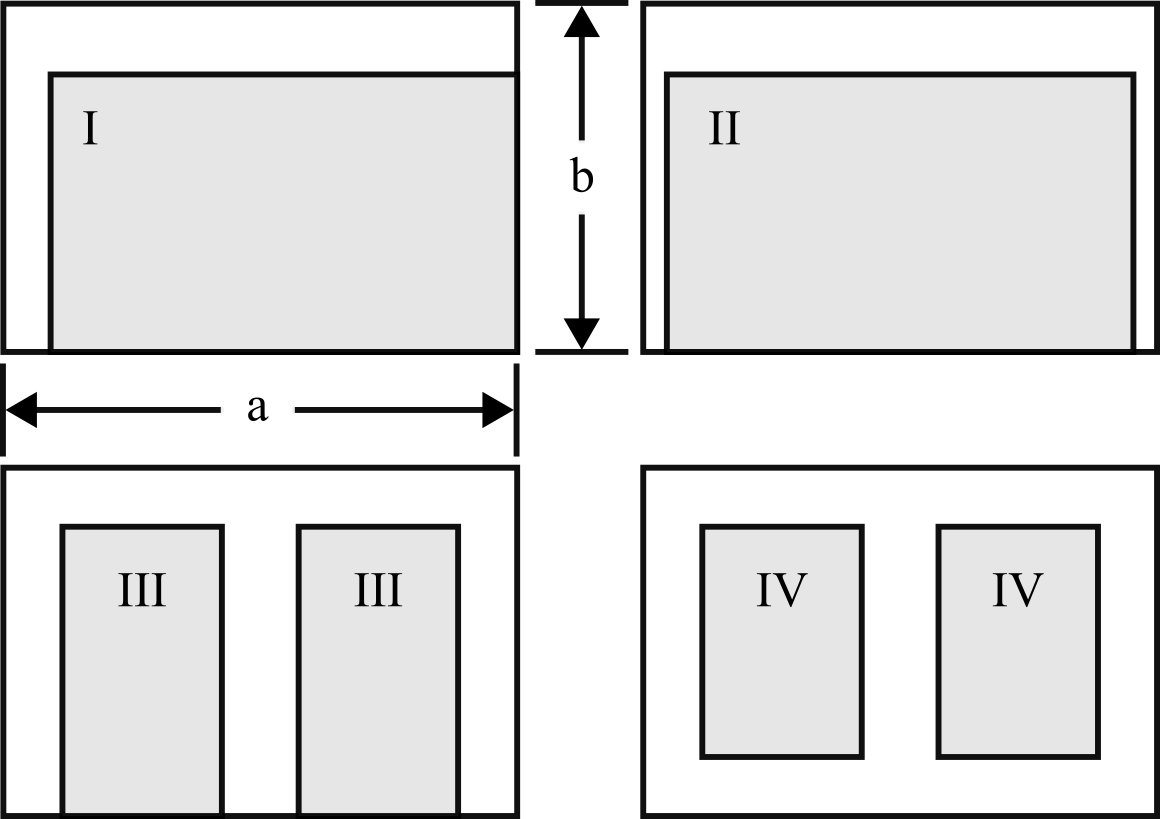
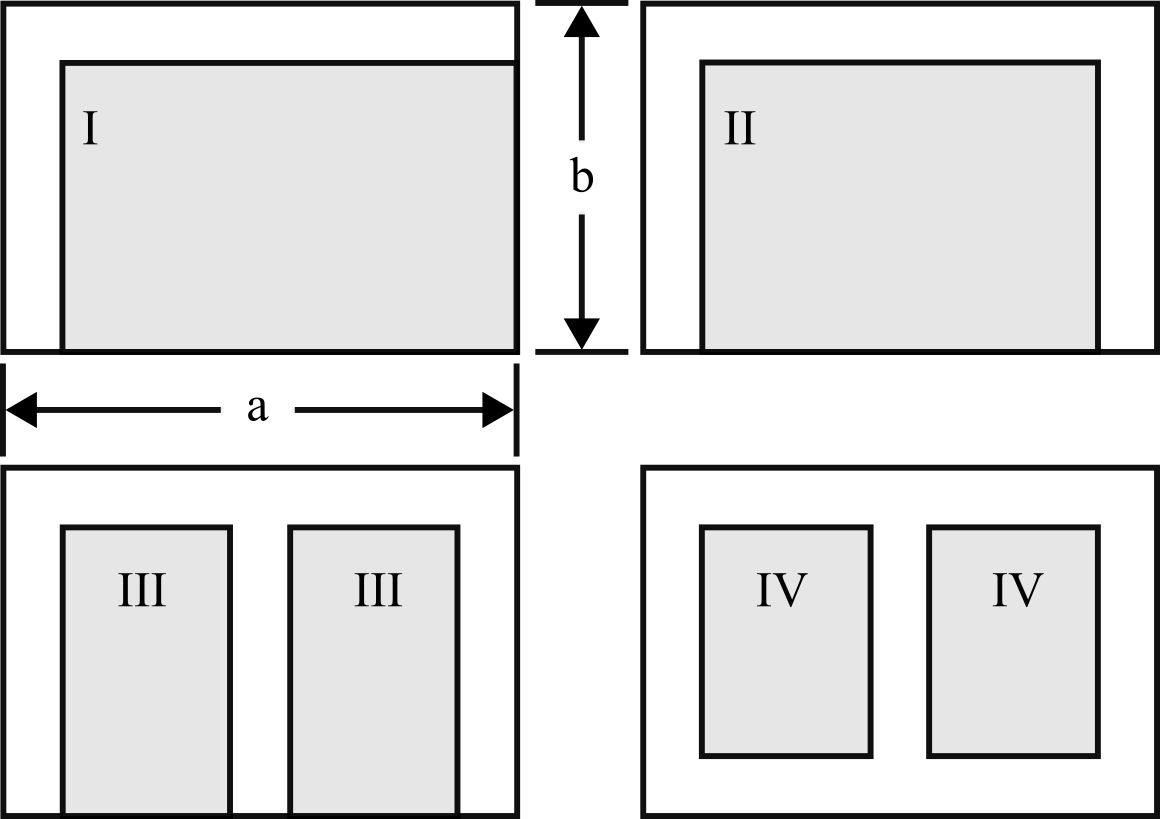
corrected figure on 7G_2SA

diff --git a/Q12_2Klausur_Ana_Sto.tex b/Q12_2Klausur_Ana_Sto.tex
@@ -1,0 +1,213 @@
+%compile with pdflatex on papeeria
+
+\documentclass[a4paper,12pt]{article}
+\usepackage{fancyhdr}
+%\usepackage{fancyheadings}
+\usepackage[ngerman,german]{babel}
+\usepackage{german}
+\usepackage[utf8]{inputenc}
+%\usepackage[latin1]{inputenc}
+\usepackage[active]{srcltx}
+%\usepackage{algorithm}
+%\usepackage[noend]{algorithmic}
+\usepackage{amsmath}
+\usepackage{amssymb}
+\usepackage{amsthm}
+\usepackage{bbm}
+\usepackage{enumerate}
+\usepackage{graphicx}
+\usepackage{ifthen}
+\usepackage{listings}
+\usepackage{enumitem}
+%\usepackage{struktex}
+\usepackage{hyperref}
+\usepackage{tikz}
+\usepackage{float}
+\usepackage{subcaption}
+\captionsetup{compatibility=false}
+\captionsetup[subfigure]{labelformat=empty}
+
+\usepackage{pgfplots}
+\usepgfplotslibrary{fillbetween}
+%\usetikzlibrary{patterns}
+\pgfplotsset{compat=1.15}
+\usepackage{mathrsfs}
+\usetikzlibrary{arrows}
+
+\pgfplotsset{grid style={dashed,gray}}
+
+\definecolor{kolorwykresu}{rgb}{0.07,0.04,0.56}
+
+\pagenumbering{gobble}
+
+%%%%%%%%%%%%%%%%%%%%%%%%%%%%%%%%%%%%%%%%%%%%%%%%%%%%%%
+%%%%%%%%%%%%%% EDIT THIS PART %%%%%%%%%%%%%%%%%%%%%%%%
+%%%%%%%%%%%%%%%%%%%%%%%%%%%%%%%%%%%%%%%%%%%%%%%%%%%%%%
+\newcommand{\Fach}{2. Klausur aus der Mathematik (A)}
+\newcommand{\Name}{}
+\newcommand{\datum}{}
+\newcommand{\Matrikelnummer}{}
+\newcommand{\Semester}{Q12/2}
+\newcommand{\Uebungsblatt}{} %  <-- UPDATE ME
+%%%%%%%%%%%%%%%%%%%%%%%%%%%%%%%%%%%%%%%%%%%%%%%%%%%%%%
+%%%%%%%%%%%%%%%%%%%%%%%%%%%%%%%%%%%%%%%%%%%%%%%%%%%%%%
+
+\setlength{\parindent}{0em}
+\topmargin -1.0cm
+\oddsidemargin 0cm
+\evensidemargin 0cm
+\setlength{\textheight}{9.2in}
+\setlength{\textwidth}{6.0in}
+
+%%%%%%%%%%%%%%%
+%% Aufgaben-COMMAND
+%\newcommand{\Aufgabe}[1]{
+%  {
+%  \vspace*{0.5cm}
+%  \textsf{\textbf{Aufgabe #1}}
+%  \vspace*{0.2cm}
+%  
+%  }
+%}
+%
+\newcounter{aufgabencounter}
+\newcommand{\aufgabeNr}{\stepcounter{aufgabencounter}{\theaufgabencounter}}
+
+
+%%%%%%%%%%%%%%%
+%% Aufgaben-COMMAND
+\newcommand{\Aufgabe}[1]{
+  {
+  \vspace*{0.5cm}
+  \textsf{\textbf{Aufgabe \aufgabeNr} #1}
+  \vspace*{0.2cm}
+  
+  }
+}
+
+
+%%%%%%%%%%%%%%
+\hypersetup{
+    pdftitle={\Fach{}: Übungsblatt \Uebungsblatt{}},
+    pdfauthor={\Name},
+    pdfborder={0 0 0}
+}
+
+\lstset{ %
+language=java,
+basicstyle=\footnotesize\tt,
+showtabs=false,
+tabsize=2,
+captionpos=b,
+breaklines=true,
+extendedchars=true,
+showstringspaces=false,
+flexiblecolumns=true,
+}
+
+\title{Übungsblatt \Uebungsblatt{}}
+\author{\Name{}}
+
+\begin{document}
+\thispagestyle{fancy}
+%\lhead{\sf \large \Fach{} \\ %\small \Name{} - \Matrikelnummer{}
+\lhead{\sf \large \Fach{} %\small \Name{} - \Matrikelnummer{}
+}
+\rhead{\sf \Semester{}   \datum{}}
+%\rhead{\sf \Semester{} }
+\vspace*{0.2cm}
+%\begin{center}
+%%\LARGE \sf \textbf{Übungsblatt \Uebungsblatt{}}
+%\end{center}
+%\vspace*{0.2cm}
+
+%%%%%%%%%%%%%%%%%%%%%%%%%%%%%%%%%%%%%%%%%%%%%%%%%%%%%%
+%% Insert your solutions here %%%%%%%%%%%%%%%%%%%%%%%%
+%%%%%%%%%%%%%%%%%%%%%%%%%%%%%%%%%%%%%%%%%%%%%%%%%%%%%%
+
+  Name: \underline{\hspace{7cm}}
+%\draw[line width=1pt,color=ccqqqq,smooth,samples=100,domain=-6:7] plot(\x,{(1/12)*\x*\x+(1/3)*\x});
+  \hfill
+  Datum: \underline{\hspace{4cm}}
+
+%\vspace{0,5cm}Die Rechenwege müssen nachvollziehbar sein!
+
+
+\vspace{1,5cm} 
+\begin{center}
+  {\bf TEIL A} - Analysis (ohne Hilfsmittel)
+\end{center}
+\vspace {0,2cm}
+ 
+
+\Aufgabe{}
+Gegeben ist die Funktion $f:f(x) = 2 \cdot \sqrt{x+4} -3$.
+
+\begin{enumerate}[label={\alph*)}]
+ \item Bestimmen Sie die Definitionsmenge $D_f$ der Funktion $f$.
+  \begin{flushright}2 BE \end{flushright}
+ \item Berechnen Sie die Schnittpunkte des Graphen $G_f$ mit den Koordinatenachsen.
+  \begin{flushright}5 BE \end{flushright}
+\end{enumerate}
+
+\vspace{1cm}
+
+\Aufgabe{}
+Gegeben ist die Funktion $f: x \rightarrow \frac{\ln x}{x}, D_f = \mathbb{R}^{+}$.
+\begin{enumerate}[label={\alph*)}]
+ \item Berechnen Sie die Nullstelle sowie mögliche Extremwerte der Funktion.
+  \begin{flushright}7 BE \end{flushright}
+    [Zur Kontrolle: $f'(x) = \frac{2\ln x - 3}{x^3}$]
+ \item Ermitteln Sie die Koordinaten des Wendepunkts $W$ von $G_f$.
+  \begin{flushright}5 BE \end{flushright}
+\end{enumerate}
+
+
+\newpage
+\begin{center}
+  {\bf TEIL B} - Stochastik
+\end{center}
+\vspace {0,2cm}
+
+{\it Runden Sie die Wahrscheinlichkeit jeweils auf zwei Prozentdezimalen.}\\
+
+\Aufgabe{}
+Ein Glücksrad hat vier gleich große Sektoren, in denen jeweils die Zahlen 0; 2; 4 und 8 stehen. Die Zahlen geben auch gleichzeitig an, wie viele Euro pro Spiel ausgezahlt werden.
+\begin{enumerate}[label={\alph*)}]
+  \item Berechnen Sie den Erwartungswert!
+  \begin{flushright}3 BE \end{flushright}
+  \item Der Einsatz bei einem fairen Spiel beträgt 2,50€. Begründen Sie, wie man die Sektoren verändern müsste, um das Spiel „fair“ zu machen!
+  \begin{flushright}2 BE \end{flushright}
+\end{enumerate}
+
+\Aufgabe{}
+Bei einer Umfrage unter den Teilnehmern der Mathekurse Q12 befürchten 23\% der SchülerInnen, in der schriftlichen Abiturprüfung eine Minderleistung zu schreiben. Der Englischlehrer unterhält sich mit fünf Personen des Abiturjahrgangs.
+\begin{enumerate}[label={\alph*)}]
+  \item Berechnen Sie die Wahrscheinlichkeit, mit der vier dieser fünf Personen befürchten,
+im Matheabitur eine Minderleistung zu schreiben!
+  \begin{flushright}2 BE \end{flushright}
+\item Berechnen Sie die Wahrscheinlichkeit, mit der höchstens ein Teilnehmer befürchtet, eine Minderleistung zu erzielen!
+  \begin{flushright}3 BE \end{flushright}
+\end{enumerate}
+
+\vspace{2cm}
+\centerline{Viel Erfolg}
+
+
+%\enlargethispage{2\baselineskip}
+
+%\addtolength{\voffset}{-2cm}
+
+
+
+
+%\begin{tikzpicture}
+%\draw [very thin, black, step=0.5cm] (0,0) grid +(15,18);
+%\end{tikzpicture}
+
+
+
+
+%%%%%%%%%%%%%%%%%%%%%%%%%%%%%%%%%%%%%%%%%%%%%%%%%%%%%%
+%%%%%%%%%%%%%%%%%%%%%%%%%%%%%%%%%%%%%%%%%%%%%%%%%%%%%%
+\end{document}
